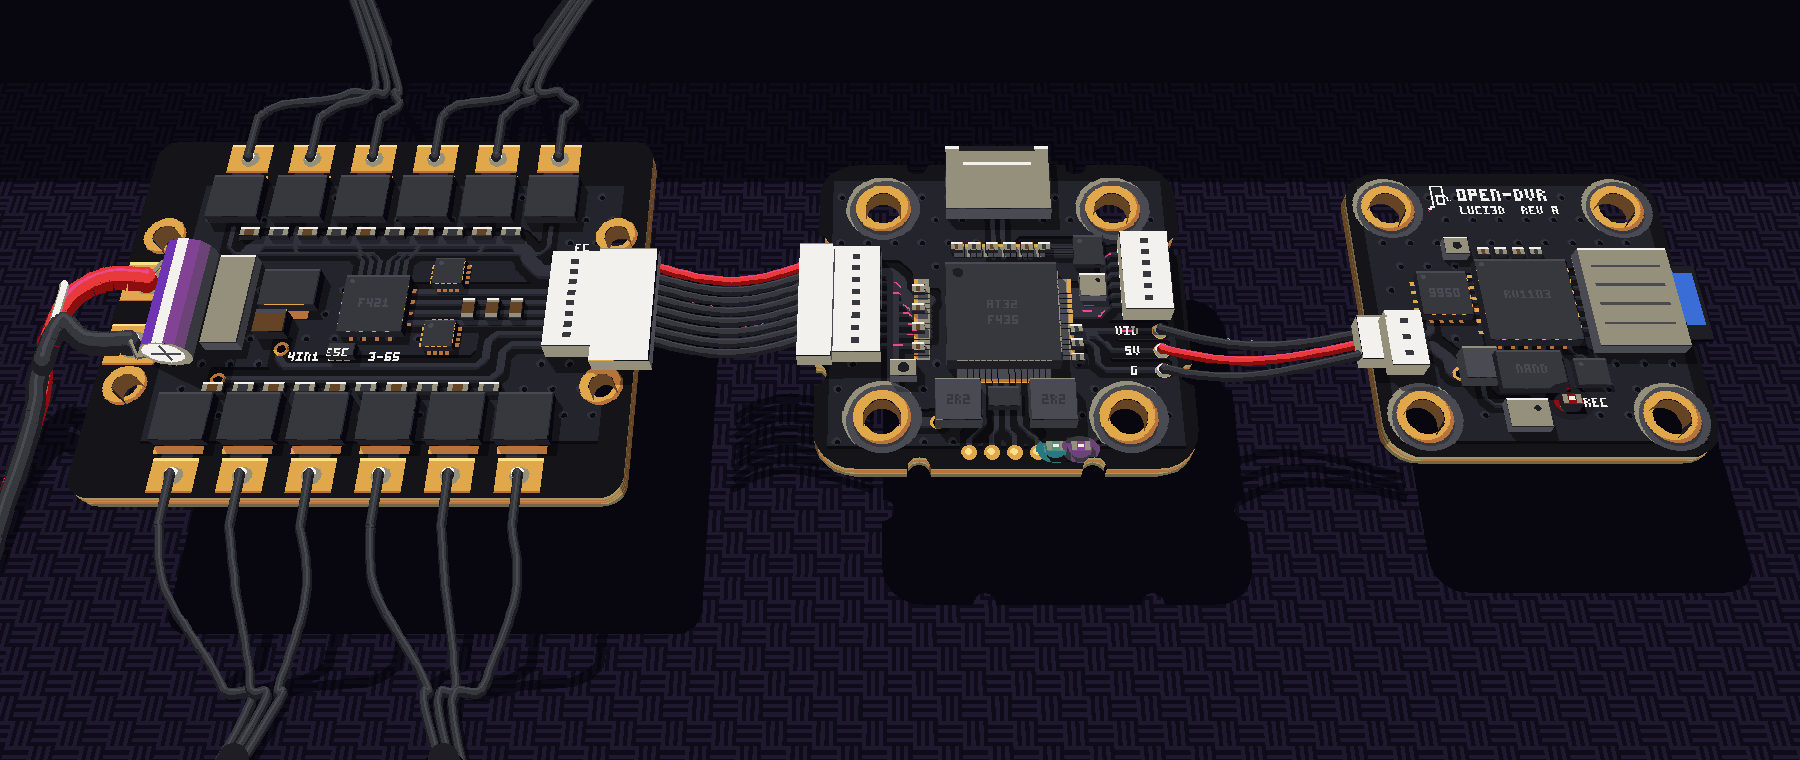
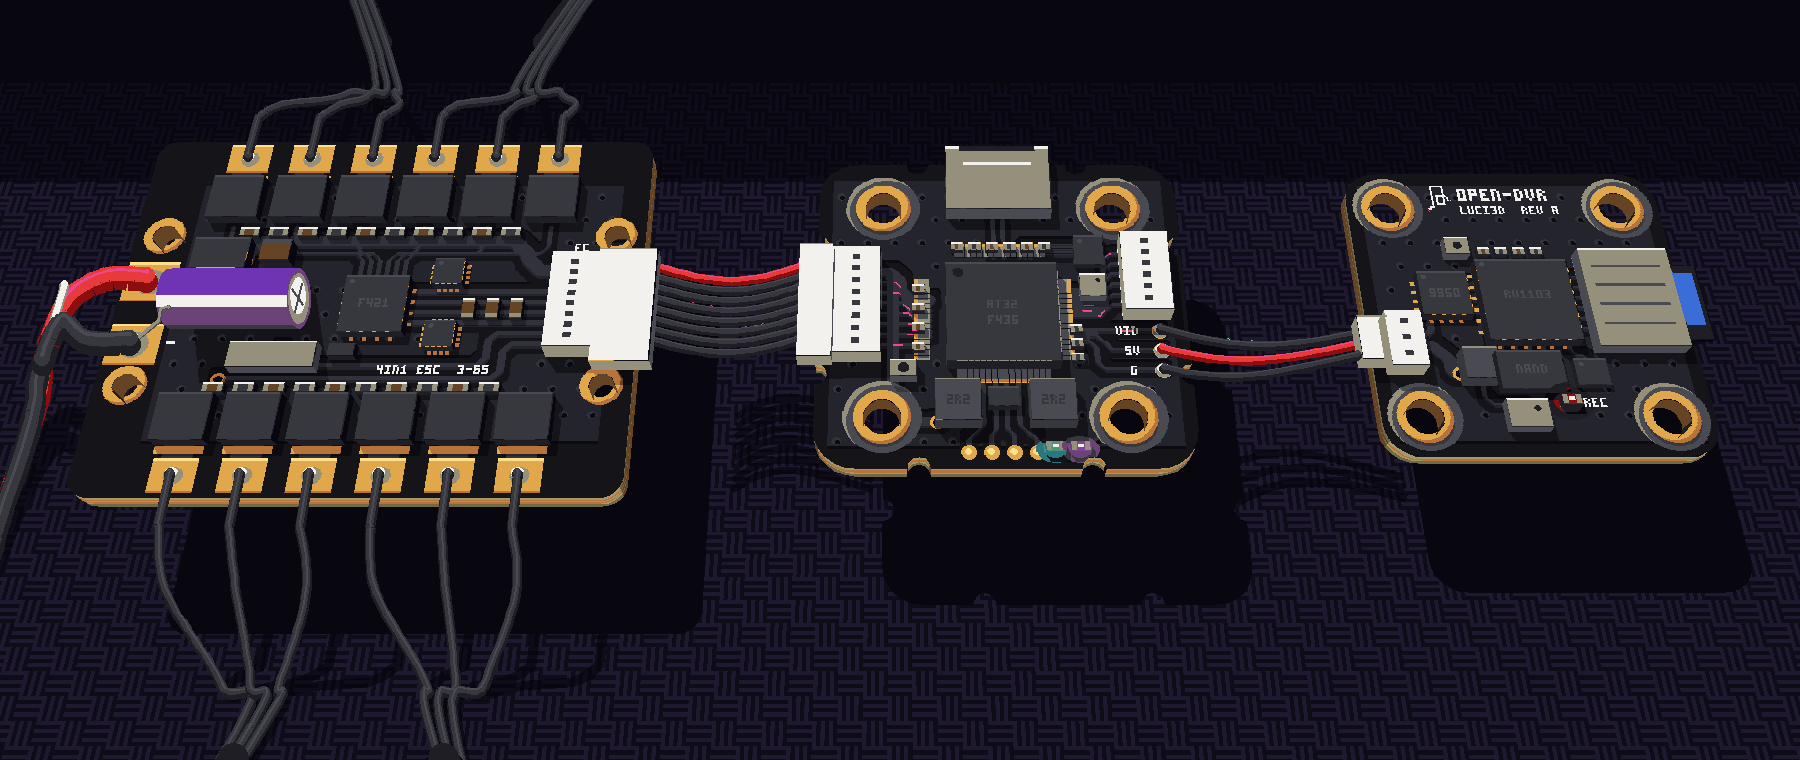
Stacks: the battery capacitor is a radial cap, legs on its pads
- citykit: radial_cap() / draw_radial(): an electrolytic lying along x,
  both legs out of the rubber-bung end, bent down onto the + and - pads;
  vent end and polarity stripe visible. Its footprint is drawn on the flat
  plan only
- Clean Stack: cap lies next to the ESC battery pads; regulator, tantalum
  and current shunt moved to make room
- Beaten Stack: same cap, and the - pad moved up next to the + pad
- Site images refreshed

Claude-Session: https://claude.ai/code/session_01UmY5gnHVZKbKAZ5r4hJAVp

Changed region(s): [[0.0622, 0.3026, 0.2178, 0.5145]]

diff --git a/art/world/citykit.py b/art/world/citykit.py
@@ -97,6 +97,46 @@ def spline(ctrl, per=12):
     return out
 
 
+def draw_radial(o, proj, poly, line, cam, ladder=None):
+    """A radial electrolytic lying on its side along x, both legs out of one end (the FPV way).
+    o: x0, x1, cy, r, legs ('w' or 'e'). Draws the visible sleeve facets and the visible end."""
+    x0, x1, cy, r = o["x0"], o["x1"], o["cy"], o["r"]
+    zc = r
+    ladder = ladder or [SMOKE_VIOLET, GRAFFITI_PURPLE, DUSK_PURPLE, IC_DARK]
+    vent_x, bung_x = (x1, x0) if o["legs"] == "w" else (x0, x1)
+    ring = [2 * math.pi * k / 20 for k in range(20)]
+    for ex in (x0, x1):                                   # the end facing the camera
+        if (cam[0] - ex) * (1 if ex == x1 else -1) <= 0:
+            continue
+        poly([proj(ex, cy + r * math.cos(t), zc + r * math.sin(t)) for t in ring], ladder[2])
+        if ex == vent_x:                                  # aluminium top with the K vent
+            poly([proj(ex, cy + r * 0.84 * math.cos(t), zc + r * 0.84 * math.sin(t)) for t in ring], SILKSCREEN_SHADE)
+            poly([proj(ex, cy + r * 0.6 * math.cos(t) - 2, zc + r * 0.6 * math.sin(t) + 2) for t in ring], SILKSCREEN_WHITE)
+            line([proj(ex, cy - r * 0.55, zc), proj(ex, cy + r * 0.55, zc)], IC_GREY, 2)
+            line([proj(ex, cy, zc - r * 0.55), proj(ex, cy, zc + r * 0.55)], IC_GREY, 2)
+        else:                                             # rubber bung, where the legs come out
+            poly([proj(ex, cy + r * 0.78 * math.cos(t), zc + r * 0.78 * math.sin(t)) for t in ring], IC_BLACK)
+    n = 16
+    for k in range(n):
+        ta, tb = 2 * math.pi * k / n, 2 * math.pi * (k + 1) / n
+        tm = (ta + tb) / 2
+        ny, nz = math.cos(tm), math.sin(tm)
+        if ny * (cam[1] - (cy + r * ny)) + nz * (cam[2] - (zc + r * nz)) <= 0:
+            continue
+        lit = -0.45 * ny + 0.9 * nz
+        c = ladder[0 if lit > 0.7 else 1 if lit > 0.15 else 2 if lit > -0.4 else 3]
+        if k == 2:
+            c = SILKSCREEN_WHITE                          # polarity stripe (the minus side)
+        poly([proj(x0, cy + r * math.cos(ta), zc + r * math.sin(ta)), proj(x1, cy + r * math.cos(ta), zc + r * math.sin(ta)),
+              proj(x1, cy + r * math.cos(tb), zc + r * math.sin(tb)), proj(x0, cy + r * math.cos(tb), zc + r * math.sin(tb))], c)
+
+
+def radial_shadow(o, proj, light):
+    x0, x1, cy, r = o["x0"], o["x1"], o["cy"], o["r"]
+    ox, oy = light[0] * 2 * r, light[1] * 2 * r
+    return [proj(x0, cy - r, 0), proj(x1, cy - r, 0), proj(x1 + ox, cy + r + oy, 0), proj(x0 + ox, cy + r + oy, 0)]
+
+
 def rounded_outline(x, y, w, h, r, n=6, notches=()):
     """Rounded rectangle outline (clockwise). notches: (edge, pos, radius) semicircle bites,
     edge in 'nsew', pos measured along the edge from the board's top-left."""
@@ -141,6 +181,7 @@ class City:
         self.boards = []       # (outline, thickness)
         self.board_area = np.zeros((h, w), bool)
         self.traces = []
+        self.plan_extras = []  # (x, y, w, h, colour) drawn on the flat plan image, not under the 3D view
 
     # ---------------------------------------------------------------- plan drawing
     def mask(self, fn):
@@ -272,6 +313,18 @@ class City:
 
     def hcyl(self, cx, y0, y1, r, stripe=True):
         self.objs.append(dict(kind="hcyl", cx=cx, y0=y0, y1=y1, r=r, stripe=stripe))
+
+    def radial_cap(self, x0, x1, cy, r, legs, pads):
+        """A radial electrolytic lying along x on the board, legs out of the `legs` end ('w'/'e'),
+        bent down onto pads [(x, y), (x, y)] (plus first, minus second)."""
+        self.objs.append(dict(kind="radial", x0=x0, x1=x1, cy=cy, r=r, legs=legs))
+        self.plan_extras.append((x0, cy - r, x1 - x0, 2 * r, GRAFFITI_PURPLE))      # shown in the flat plan only
+        self.plan_extras.append((x0, cy + r * 0.45, x1 - x0, 4, SILKSCREEN_WHITE))
+        self.plan_extras.append((x1 - 6 if legs == "w" else x0, cy - r, 6, 2 * r, SILKSCREEN_SHADE))
+        bx, s = (x0, -1) if legs == "w" else (x1, 1)
+        for (px, py), off in zip(pads, (-0.35, 0.35)):
+            self.wire([(bx, cy + off * r, r), (bx + s * 10, cy + off * r, r - 4), (bx + s * 16, cy + off * r * 1.6, 12),
+                       (px, py, 5)], 4, SILKSCREEN_SHADE)
 
     def legs(self, xs, y, dy, n, wid=5):
         for x in xs:
@@ -615,9 +668,12 @@ class City:
         cyl_sh = [[proj(o["cx"] - o["r"], o["y0"], 0), proj(o["cx"] + o["r"] + light[0] * 60, o["y0"] + 30, 0),
                    proj(o["cx"] + o["r"] + light[0] * 60, o["y1"] + 40, 0), proj(o["cx"] - o["r"], o["y1"], 0)]
                   for o in self.objs if o["kind"] == "hcyl"]
+        cyl_sh += [radial_shadow(o, proj, light) for o in self.objs if o["kind"] == "radial"]
         shade_screen(screen_mask([footprint_shadow(o) for o in ground] + cyl_sh) & board_screen)
         items = [(o["y"] + o["d"], 0, lambda o=o: draw_box(o)) for o in ground]
         items += [(o["y1"], 0, lambda o=o: draw_hcyl(o)) for o in self.objs if o["kind"] == "hcyl"]
+        items += [(o["cy"] + o["r"], 0, lambda o=o: draw_radial(o, proj, poly, lambda pts, c, w: dr.line(pts, fill=c, width=w), cam))
+                  for o in self.objs if o["kind"] == "radial"]
         items += [(max(p[1] for p in r[0]), 1, lambda r=r: draw_run(*r[:3])) for r in runs if not r[3]]
         for _, _, fn in sorted(items, key=lambda t: (t[0], t[1])):
             fn()
@@ -635,4 +691,6 @@ class City:
         pl = np.zeros_like(self.a)
         pl[:] = VOID
         pl[alpha] = self.a[alpha]
+        for x, y, w, h, col in self.plan_extras:
+            pl[int(y):int(y + h), int(x):int(x + w)] = col
         return Image.fromarray(pl)

diff --git a/art/world/make_stack.py b/art/world/make_stack.py
@@ -30,6 +30,9 @@ sys.path.insert(0, str(ROOT / "brand" / "tools"))
 import palette  # noqa: E402
 from font3x5 import text_pixels, text_width  # noqa: E402
 
+sys.path.insert(0, str(Path(__file__).resolve().parent))
+from citykit import draw_radial, radial_shadow  # noqa: E402
+
 P = palette.load()
 for _k in list(P):
     globals()[_k.upper().replace(" ", "_").replace("-", "_")] = P[_k]
@@ -575,13 +578,17 @@ for i in range(3):
 chip0603(*E(160, 560))
 
 # the water tower: big electrolytic lying across the battery pads
-CAPX, CAPY = E(500, 236)
-blob(CAPX + 30, CAPY + 90, 40, None, ry=96)
-OBJS.append(dict(kind="hcyl", cx=CAPX + 30, y0=CAPY, y1=CAPY + 172, r=30))
-for (yy, py_) in [(CAPY + 4, 241), (CAPY + 168, 431)]:
-    wire3d([(CAPX + 44, yy, 14), (CAPX + 70, yy, 10), (E(612, py_)[0], E(0, py_)[1], 4)], 4, SILKSCREEN_SHADE)
+# (a radial cap: lies along x, both legs out of its east end, bent onto the + and - pads)
+CX0, CX1, CCY, CR = *E(424, 0)[:1], E(560, 0)[0], E(0, 288)[1], 32
+blob((CX0 + CX1) / 2 + 10, CCY + 12, 80, None, ry=40)
+OBJS.append(dict(kind="radial", x0=CX0, x1=CX1, cy=CCY, r=CR, legs="e"))
+PLAN_EXTRAS = [(CX0, CCY - CR, CX1 - CX0, 2 * CR, GRAFFITI_PURPLE), (CX0, CCY + CR * 0.45, CX1 - CX0, 4, SILKSCREEN_WHITE),
+               (CX0, CCY - CR, 6, 2 * CR, SILKSCREEN_SHADE)]           # the cap in the flat plan only
+for (pxy, off) in zip((E(608, 241), E(608, 335)), (-0.35, 0.35)):
+    wire3d([(CX1, CCY + off * CR, CR), (CX1 + 10, CCY + off * CR, CR - 4), (CX1 + 16, CCY + off * CR * 1.6, 12),
+            (pxy[0], pxy[1], 5)], 4, SILKSCREEN_SHADE)
 
-for (py_, c, lab_) in [(206, LOGO_RED, "+"), (396, IC_DARK, "-")]:  # battery pads + leads
+for (py_, c, lab_) in [(206, LOGO_RED, "+"), (300, IC_DARK, "-")]:  # battery pads + leads
     px_, pyy = E(590, py_)
     rect(px_, pyy, 50, 70, ENIG_GOLD)
     rect(px_, pyy, 50, 4, GOLD_HIGHLIGHT)
@@ -968,7 +975,7 @@ raised = [o for o in OBJS if o["kind"] == "box" and o["z0"] > 4]
 sh = screen_mask([footprint_shadow(o) for o in ground] +
                  [[proj(o["cx"] - o["r"] + LIGHT[0] * 0, o["y0"], 0), proj(o["cx"] + o["r"] + LIGHT[0] * 60, o["y0"] + 30, 0),
                    proj(o["cx"] + o["r"] + LIGHT[0] * 60, o["y1"] + 40, 0), proj(o["cx"] - o["r"], o["y1"], 0)]
-                  for o in OBJS if o["kind"] == "hcyl"])
+                  for o in OBJS if o["kind"] == "hcyl"] + [radial_shadow(o, proj, LIGHT) for o in OBJS if o["kind"] == "radial"])
 shade_screen(sh & BOARD_SCREEN)
 
 items = []
@@ -977,6 +984,9 @@ for o in ground:
 for o in OBJS:
     if o["kind"] == "hcyl":
         items.append((o["y1"], 0, lambda o=o: draw_hcyl(o)))
+    if o["kind"] == "radial":
+        items.append((o["cy"] + o["r"], 0, lambda o=o: draw_radial(o, proj, poly,
+                                                                     lambda pts, c, w: dr.line(pts, fill=c, width=w), CAM)))
     if o["kind"] == "tri":
         items.append((max(p[1] for p in o["pts"]), 0,
                       lambda o=o: poly([proj(*p) for p in o["pts"]], o["c"])))
@@ -1003,5 +1013,7 @@ scr.save(out / "stack-v2.png")
 pl = np.zeros_like(plan)
 pl[:] = VOID
 pl[alpha] = plan[alpha]
+for x, y, w, h, col in PLAN_EXTRAS:
+    pl[int(y):int(y + h), int(x):int(x + w)] = col
 Image.fromarray(pl).save(out / "stack-v2-plan.png")
 print("wrote", out)

diff --git a/art/world/make_clean.py b/art/world/make_clean.py
@@ -134,12 +134,12 @@ for k in range(10):                                                # gate resist
 c.qfn(*E(*DRV), 64, 64, 5, "F421")
 c.qfn(*E(318, 150), 30, 30, 4)
 c.qfn(*E(318, 222), 30, 30, 4)
-c.box(*E(148, 166), 56, 40, 6, IC_DARK, IC_BLACK, hi=IC_GREY)    # regulator
-c.rect(*E(156, 206), 40, 10, ENIG_GOLD)
-c.box(*E(150, 214), 30, 24, 7, COPPER_SHADOW, IC_BLACK)           # tantalum
-c.rect(*E(150, 214), 30, 4, IC_GREY)
+c.box(*E(70, 128), 56, 36, 6, IC_DARK, IC_BLACK, hi=IC_GREY)     # regulator
+c.rect(*E(78, 164), 40, 8, ENIG_GOLD)
+c.box(*E(140, 132), 30, 24, 7, COPPER_SHADOW, IC_BLACK)           # tantalum
+c.rect(*E(140, 132), 30, 4, IC_GREY)
 c.box(*E(226, 248), 26, 14, 4, IC_DARK, IC_BLACK)
-c.box(*E(100, 300 - 150), 36, 100, 6, SILKSCREEN_SHADE, IC_GREY, hi=SILKSCREEN_WHITE)   # current shunt
+c.box(*E(130, 248), 86, 28, 6, SILKSCREEN_SHADE, IC_GREY, hi=SILKSCREEN_WHITE)   # current shunt
 for i in range(3):
     c.chip(*E(352 + 24 * i, 196), 12, 22, COPPER_SHADOW, 3)
 c.jst(*E(440, 150), 48, 108, 8, "v", 10)                           # FC port
@@ -150,10 +150,8 @@ for py, lab in [(150, "+"), (222, "-")]:
     c.solder(*E(28, py + 23), 14)
 c.text("+", *E(60, 160), SILKSCREEN_WHITE, 3)
 c.text("-", *E(60, 236), SILKSCREEN_WHITE, 3)
-c.text_c("4IN1 ESC  3-6S", *E(240, 254), SILKSCREEN_WHITE, 2)
-c.hcyl(*E(76, 0)[:1], E(0, 150)[1], E(0, 268)[1], 24)              # capacitor lying on the pads
-for yy in (E(0, 150)[1] + 4, E(0, 268)[1] - 4):                   # short legs (< 1 cm) to the pads
-    c.wire([(EX + 70, yy, 20), (EX + 40, yy, 8), (EX + 28, yy + (19 if yy < YC else -19), 6)], 4, SILKSCREEN_SHADE)
+c.text_c("4IN1 ESC  3-6S", *E(330, 268), SILKSCREEN_WHITE, 2)
+c.radial_cap(EX + 70, EX + 196, EY + 209, 30, "w", [E(30, 173), E(30, 245)])   # the cap, legs on its pads
 YB = EY + 209                                                      # the leads meet here
 for py, col, off in [(173, LOGO_RED, -13), (245, BLACKW, 13)]:      # battery leads, gathered and tied
     y0 = EY + py
